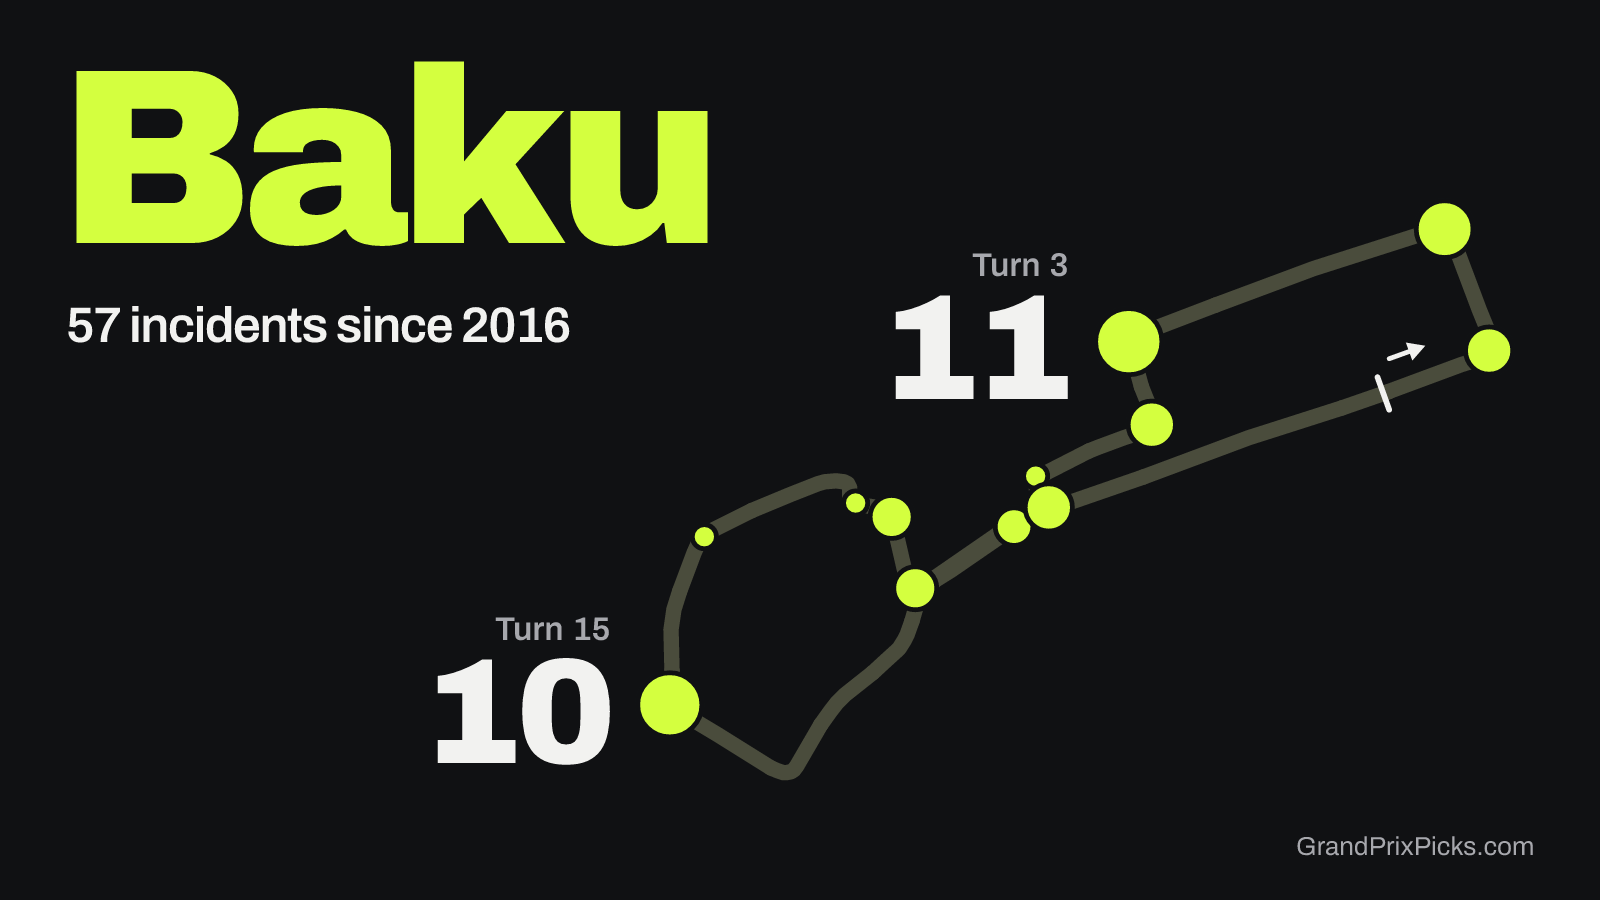
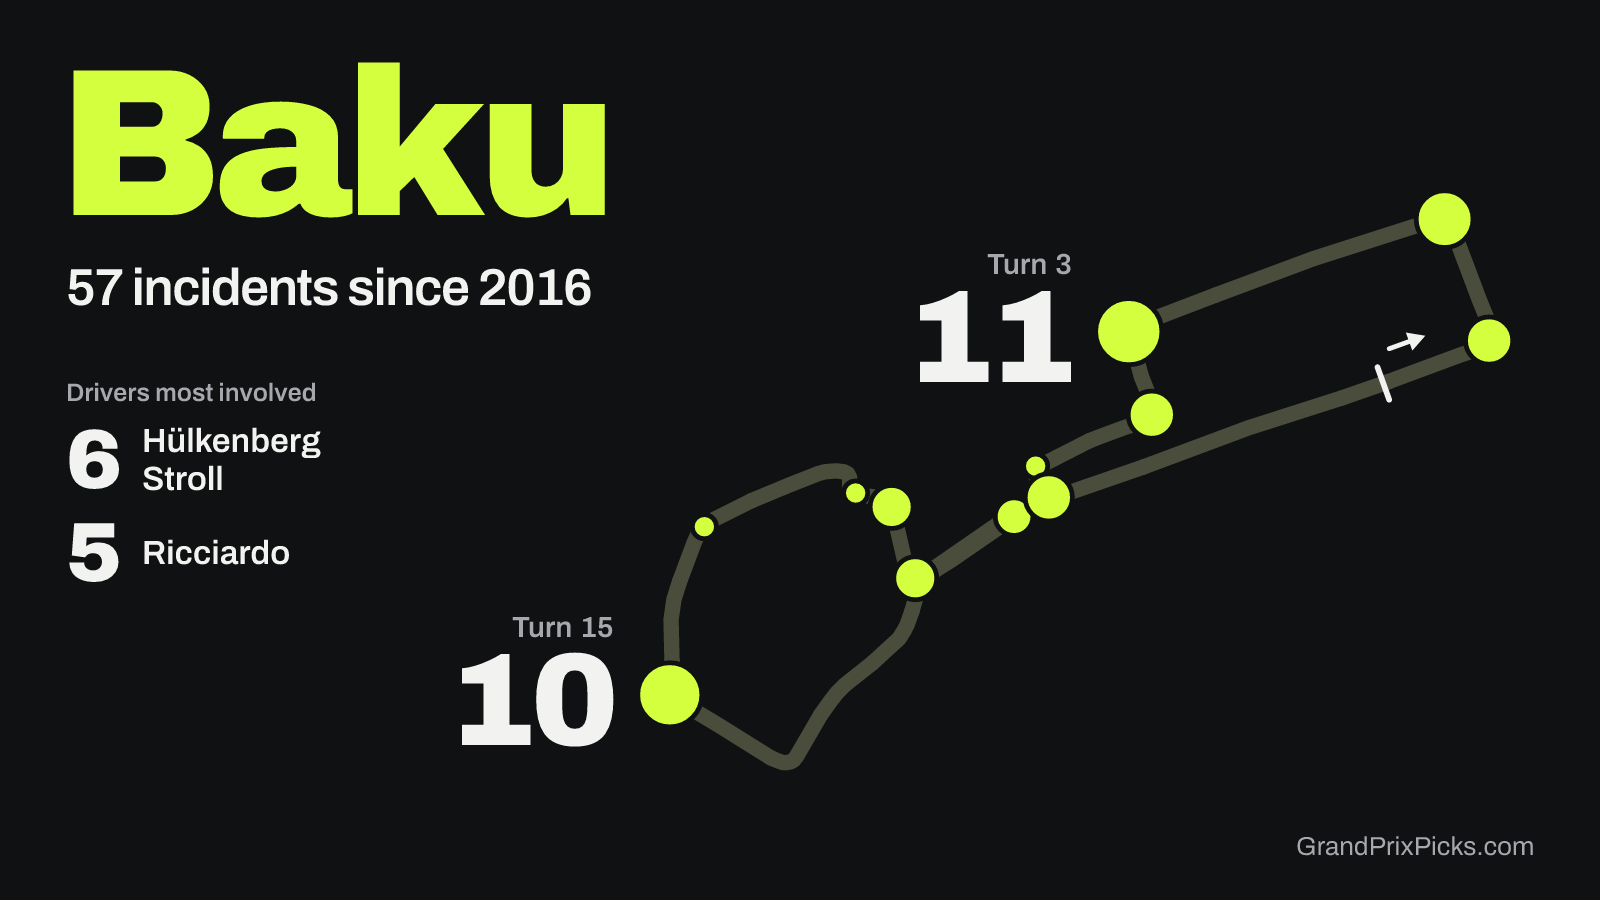
Rebalance the Baku crash map and bring back the top drivers.
The title, the corner numerals and the fact line were fighting: "Baku" at
320px and the numerals at 150px left the fact line looking like a caption.
They now sit on one stepped scale (260 / 132 / 88 / 58 in portrait), and the
map moves up into the gap under the fact line.

The drivers most involved return as their own block, in the corners'
numeral-and-label grammar one step smaller: Hülkenberg and Stroll on 6,
Ricciardo on 5. It names everyone on the top two counts so no tie is cut; the
four-way tie on 4 is in the caption. It sits under the long straight in
portrait and down the left column on X, clear of the ALT badge.

Changed region(s): [[0.0312, 0.0622, 0.4688, 0.6533], [0.4062, 0.2178, 0.9375, 0.7156], [0.25, 0.6844, 0.5625, 0.8711]]

diff --git a/artifacts/social/baku-crash-map-2026/campaign.md b/artifacts/social/baku-crash-map-2026/campaign.md
@@ -10,16 +10,19 @@ Status: **not scheduled or published.** One poster per format, revised on
 | Instagram | `baku-crash-map-2026-instagram.png` | 1080×1350 |
 | X         | `baku-crash-map-2026-x.png`         | 1600×900  |
 
-A poster, not an infographic. The image carries four things: the race name,
-one line of fact ("57 incidents since 2016"), the lap with a dot per corner
-sized by its count, and the two busiest corners as large numerals beside
-their dots (Turn 3, 11; Turn 15, 10).
+A poster, not an infographic. The image carries the race name, one line of
+fact ("57 incidents since 2016"), the lap with a dot per corner sized by its
+count, the two busiest corners as large numerals beside their dots (Turn 3,
+11; Turn 15, 10), and the drivers most involved (Hülkenberg and Stroll, 6;
+Ricciardo, 5). The driver block names everyone on the top two counts, so a
+tie is never cut; the four-way tie on 4 stays in the caption.
 
 The first revision also carried a legend, a "Crash map" subtitle, a date line,
 a driver key and an archive qualification in the footer. Barry found it "too
 wordy and not like a stand out social poster". None of those facts were
-dropped: the driver totals and the archive's scope are in the captions below,
-and the whole archive is on the write-up the captions link to.
+dropped: the top drivers came back as their own block at Barry's request, the
+archive's scope is in the captions below, and the whole archive is on the
+write-up the captions link to.
 
 ## Data and scope
 
@@ -54,7 +57,7 @@ No hashtags on the brand account.
 
 > 57 incidents at Baku since 2016, and two corners stand out: Turn 3 with 11 and Turn 15 with 10.
 >
-> Hülkenberg and Stroll have been involved in the most, six each, then Ricciardo with five.
+> Hülkenberg and Stroll have been involved in the most, six each, then Ricciardo with five. Ocon, Pérez, Räikkönen and Verstappen have four each.
 >
 > The archive covers practice, qualifying, sprints and races across nine weekends, with a source for every incident. Six have no named corner and are not on the map. The full map is in our Azerbaijan GP preview, link in bio.
 >
@@ -65,7 +68,8 @@ No hashtags on the brand account.
 Poster on a charcoal background. "Baku" in large chartreuse letters, then "57
 incidents since 2016". Below, the outline of the Baku City Circuit with a
 chartreuse dot at each corner where incidents happened, larger dots for more.
-Two corners are labelled with large numbers: Turn 3 with 11 and Turn 15 with 10. GrandPrixPicks.com in the bottom right.
+Two corners are labelled with large numbers: Turn 3 with 11 and Turn 15 with 10. A list headed "Drivers most involved" shows Hülkenberg and Stroll with 6
+and Ricciardo with 5. GrandPrixPicks.com in the bottom right.
 
 ## Rendering and posting
 

diff --git a/artifacts/social/baku-crash-map-2026/DESIGN.md b/artifacts/social/baku-crash-map-2026/DESIGN.md
@@ -11,8 +11,9 @@ colors:
 
 ## Overview
 
-A poster that reads at thumbnail size: the race name, one fact, the lap, and
-two numbers. Anything a reader has to lean in for belongs in the caption.
+A poster that reads at thumbnail size: the race name, one fact, the lap, the
+two worst corners and the drivers most involved. Anything a reader has to
+lean in for belongs in the caption.
 
 ## Colours
 
@@ -23,17 +24,21 @@ read as sectors that meant nothing.
 
 ## Typography
 
-Local Archivo, weights 600 and 900. "Baku" is 320px portrait / 250px
-landscape, weight 900, tight tracking. The fact line is 54px / 50px, weight 600. Corner numerals are 150px, weight 900, with a small muted "Turn N" above.
+Local Archivo, weights 600 and 900, on one stepped scale so no two levels
+compete. "Baku" 260px portrait / 210px landscape, weight 900. The fact line
+58px / 52px, weight 600. Corner numerals 132px, driver numerals 88px / 84px,
+both weight 900 with a muted label above. Driver names 600 weight at 0.4 of
+their numeral.
 
 ## Layout
 
 Instagram (1080×1350): title, fact line, then the map across the full width.
 Turn 3's number sits left of its dot; Turn 15's goes under its dot, because
-track runs on both sides of it. URL bottom right.
+track runs on both sides of it. The driver block fills the empty space under
+the long straight. URL bottom right.
 
-X (1600×900): title and fact line top left, map on the right. Both numbers sit
-left of their dots, in open space. URL bottom right, since X's ALT badge covers
+X (1600×900): title, fact line and driver block down the left, map on the
+right. Both corner numbers sit left of their dots, in open space. URL bottom right, since X's ALT badge covers
 the lower left.
 
 ## Components
@@ -45,6 +50,7 @@ drawing is a shape, not a circuit. No leader lines.
 
 ## Don'ts
 
-No legend, subtitle, date line, driver key, rule or fine print on the image.
+No legend, subtitle, date line, rule or fine print on the image, and no driver
+beyond the top two counts.
 No decoration, architecture or generated imagery. Don't crop one format into
 the other, and don't describe incidents as crashes or blame.
